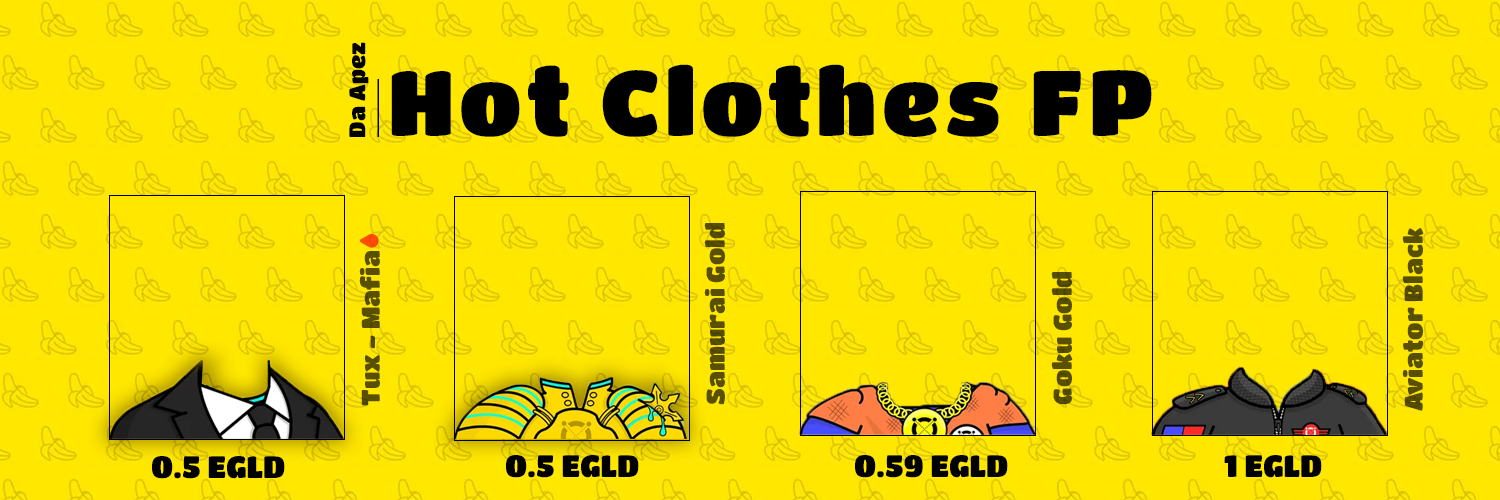
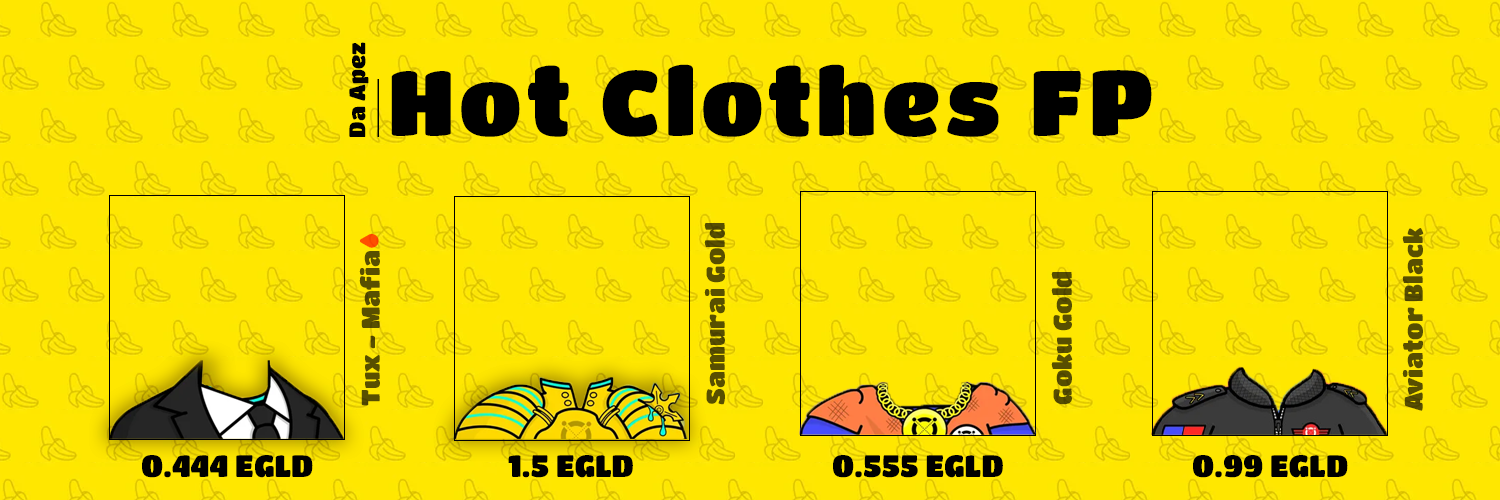
update: Floor Price Items

diff --git a/pages/index.tsx b/pages/index.tsx
@@ -138,7 +138,7 @@ const Home: NextPage = () => {
                     <div>
                       <img
                         className="block w-auto"
-                        src="/assets/img/skin_fp.png"
+                        src="/assets/img/skins_fp.png"
                         alt="clothes FP"
                       />
                     </div>   
